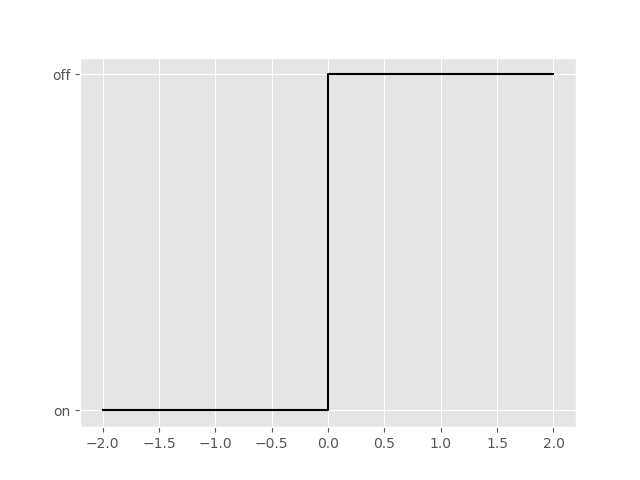
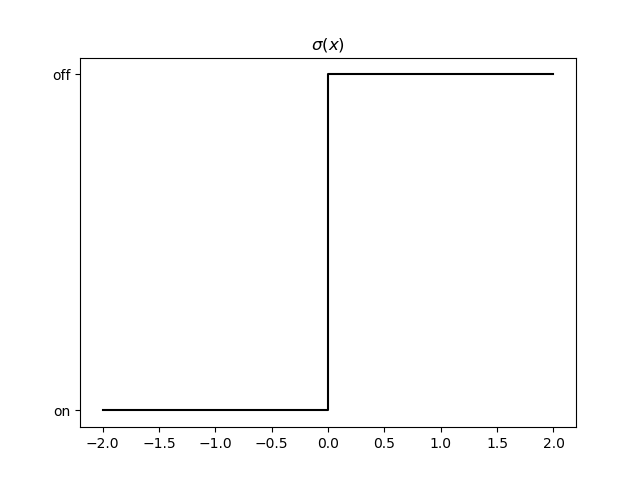
update neural networks

diff --git a/neural_network/neural_network.py b/neural_network/neural_network.py
@@ -1,7 +1,7 @@
 import numpy as np
 import matplotlib.pyplot as plt
 from scipy import stats
-plt.style.use('ggplot')
+plt.style.use('fast')
 
 
 def sigmoid(x):
@@ -27,10 +27,104 @@ def step(x):
 fig, axes = plt.subplots(ncols=1, nrows=1)
 axes.plot([-2, 0, 0, 2], [0, 0, 1, 1], 'k')
 plt.yticks(ticks = [0, 1], labels=['on', 'off'])
+plt.title('$\sigma(x)$')
 plt.savefig('img/fig3')
 
 #############
-# Figure 7
+# Figure 4
+#############
+fig, axes = plt.subplots(ncols=2, nrows=2)
+plt.subplots_adjust(hspace=0.4)
+(ax1, ax2, ax3, ax4) = axes.ravel()
+lx = np.linspace(-1, 1, 100)
+ly = np.linspace(-1, 1, 100)
+D1 = np.zeros([100, 100])
+D2 = np.zeros([100, 100])
+D3 = np.zeros([100, 100])
+D4 = np.zeros([100, 100])
+for i, x in enumerate(lx):
+    for j, y in enumerate(ly):
+        if step(x):
+            D1[i, j] = 1
+        if step(x + y):
+            D2[i, j] = 1
+        if step(2*x - y):
+            D3[i, j] = 1
+        if step(-x + 2*y):
+            D4[i, j] = 1
+ax1.imshow(D1, extent = [-1, 1, -1, 1], cmap=plt.get_cmap('Greys'), aspect = 1)
+ax1.title.set_text('$\sigma(x)$')
+ax2.imshow(D2, extent = [-1, 1, -1, 1], cmap=plt.get_cmap('Greys'), aspect = 1)
+ax2.title.set_text('$\sigma(x + y)$')
+ax3.imshow(D3, extent = [-1, 1, -1, 1], cmap=plt.get_cmap('Greys'), aspect = 1)
+ax3.title.set_text('$\sigma(2x - y)$')
+ax4.imshow(D4, extent = [-1, 1, -1, 1], cmap=plt.get_cmap('Greys'), aspect = 1)
+ax4.title.set_text('$\sigma(-x + 2y)$')
+plt.savefig('img/fig4')
+
+#############
+# Figure 5
+#############
+fig, axes = plt.subplots(ncols=2, nrows=2)
+plt.subplots_adjust(hspace=0.4)
+(ax1, ax2, ax3, ax4) = axes.ravel()
+lx = np.linspace(-1, 1, 100)
+ly = np.linspace(-1, 1, 100)
+D1 = np.zeros([100, 100])
+D2 = np.zeros([100, 100])
+D3 = np.zeros([100, 100])
+D4 = np.zeros([100, 100])
+for i, x in enumerate(lx):
+    for j, y in enumerate(ly):
+        if step(x + 0.4):
+            D1[i, j] = 1
+        if step(x + y+ 0.4):
+            D2[i, j] = 1
+        if step(2*x - y+ 0.4):
+            D3[i, j] = 1
+        if step(-x + 2*y+ 0.4):
+            D4[i, j] = 1
+ax1.imshow(D1, extent = [-1, 1, -1, 1], cmap=plt.get_cmap('Greys'), aspect = 1)
+ax1.title.set_text('$\sigma(x + 0.4)$')
+ax2.imshow(D2, extent = [-1, 1, -1, 1], cmap=plt.get_cmap('Greys'), aspect = 1)
+ax2.title.set_text('$\sigma(x + y + 0.4)$')
+ax3.imshow(D3, extent = [-1, 1, -1, 1], cmap=plt.get_cmap('Greys'), aspect = 1)
+ax3.title.set_text('$\sigma(2x - y + 0.4)$')
+ax4.imshow(D4, extent = [-1, 1, -1, 1], cmap=plt.get_cmap('Greys'), aspect = 1)
+ax4.title.set_text('$\sigma(-x + 2y + 0.4)$')
+plt.savefig('img/fig5')
+
+#############
+# Figure 6
+#############
+fig, (ax1, ax2) = plt.subplots(ncols=2, nrows=1)
+plt.subplots_adjust(wspace=0.4)
+lx = np.linspace(-1, 1, 100)
+ly = np.linspace(-1, 1, 100)
+D1 = np.zeros([100, 100])
+D2 = np.zeros([100, 100])
+for i, x in enumerate(lx):
+    for j, y in enumerate(ly):
+        if step(x):
+            D1[i, j] += 1
+        if step(x + y):
+            D1[i, j] += 1
+
+        if step(-x + 2*y + 0.4):
+            D2[i, j] += 1
+        if step(x + y + 0.4):
+            D2[i, j] += 1
+        if step(x):
+            D2[i, j] += 1
+
+ax1.imshow(D1, extent = [-1, 1, -1, 1], cmap=plt.get_cmap('Greys'), aspect = 1)
+ax1.title.set_text('$\sigma(x) + \sigma(x+y)$')
+ax2.imshow(D2, extent = [-1, 1, -1, 1], cmap=plt.get_cmap('Greys'), aspect = 1)
+ax2.title.set_text('$\sigma(-x + 2y + 0.4) + \sigma(x + y + 0.4) + \sigma(x)$')
+plt.savefig('img/fig6')
+
+#############
+# Figure 8
 #############
 fig, (ax1, ax2) = plt.subplots(ncols=1, nrows=2)
 x = np.linspace(-8, 8, 1000)
@@ -41,10 +135,4 @@ ax2.set(xlim=(-8, 8), ylim=(-1.1, 1.1))
 ax1.legend()
 ax2.legend()
 plt.suptitle('Which we approximate by a continuous function $\sigma$, either:')
-plt.savefig('img/fig7')
-
-#############
-# Figure 3
-#############
-lx = np.linspace(0, 1, 1000)
-ly = np.linspace(0, 1, 1000)
+plt.savefig('img/fig8')

diff --git a/neural_network/README.md b/neural_network/README.md
@@ -1,8 +1,19 @@
 # Neural Networks
 
-## A neuron takes multiple inputs and produces one output
+### A neuron takes multiple inputs and produces one output
 ![](./img/fig1.png)
-## Inside the neuron we take a weighted sum, add a bias, and apply an activation function
+### Inside the neuron we take a weighted sum, add a bias, and apply an activation function
 ![](./img/fig2.png)
-## The activation function behaves like a switch
+### The activation function behaves like a switch
 ![](./img/fig3.png)
+### And so a neuron partitions the input space, the weights control the direction
+![](./img/fig4.png)
+### And the bias applies a shift
+![](./img/fig5.png)
+
+### Summing multiple neurons allows us to apply multiple partitions
+![](./img/fig5.png)
+
+
+### In practise, we use continous functions which approximate the step function
+![](./img/fig6.png)
